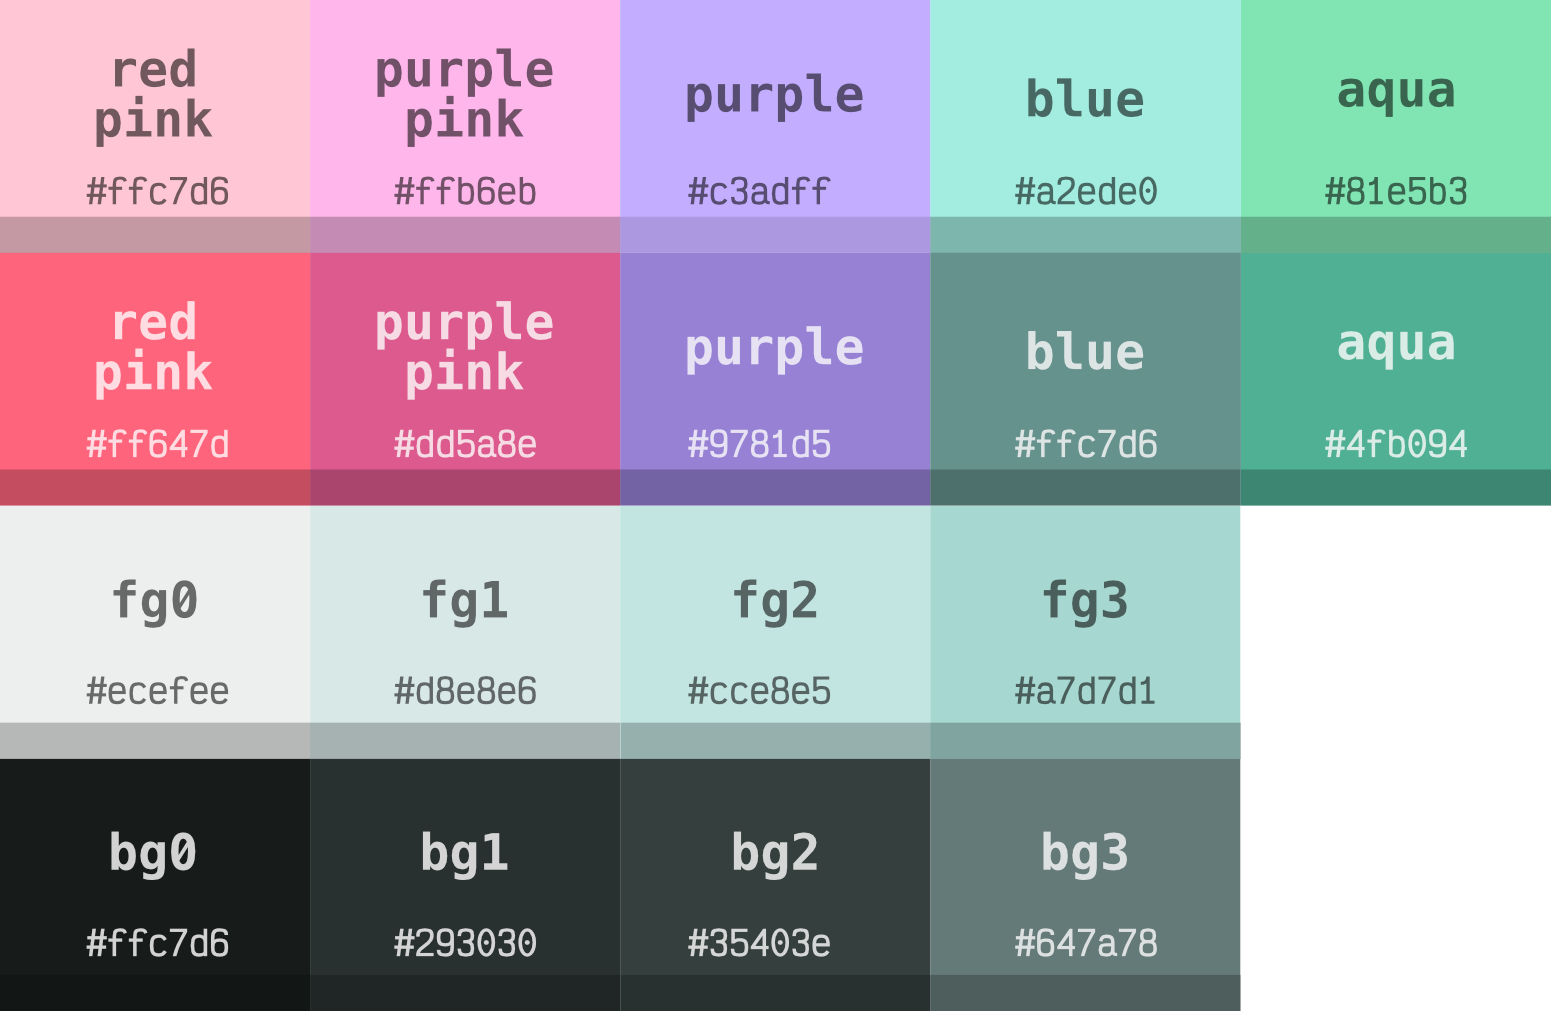
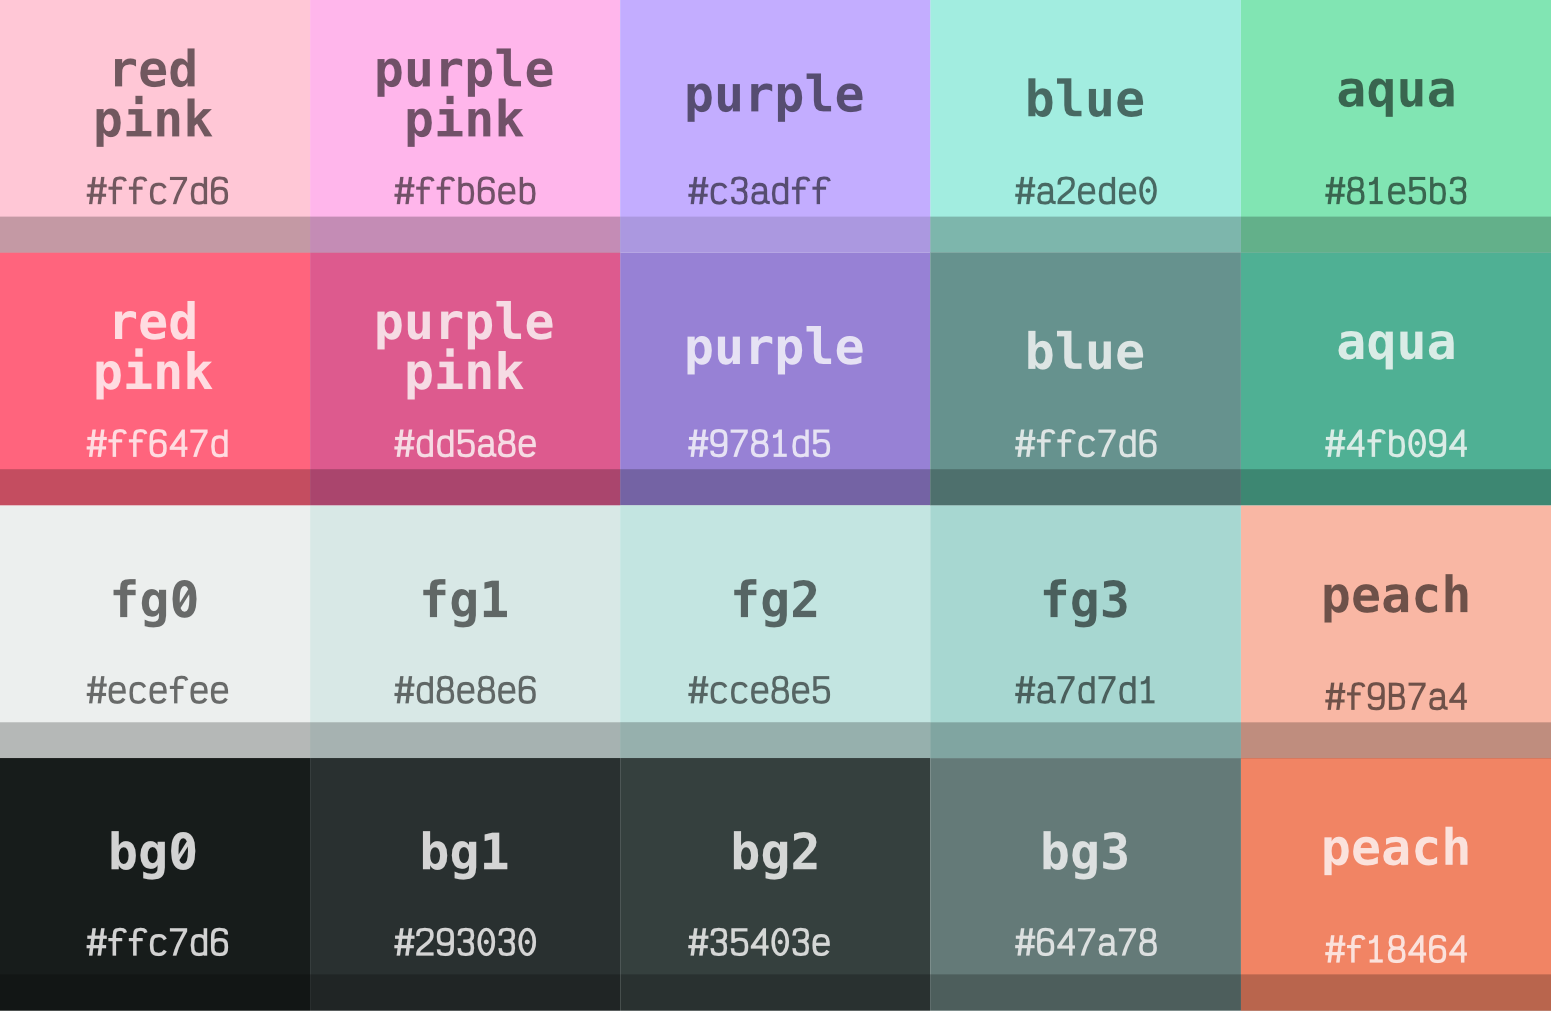
come on

diff --git a/src/theme.js b/src/theme.js
@@ -1,5 +1,4 @@
-const { colors } = require('./colors')
-const { tokenColors } = require('./colors')
+const { colors, workBenchColors, tokenColors, gruvvyWatermelonColors } = require('./colors')
 
 function getTheme({ theme, name }) {
 
@@ -77,9 +76,9 @@ function getTheme({ theme, name }) {
             "editorGutter.background": colors.dark_normal + "00",
             "editorGutter.deletedBackground": tokenColors.buttonHighlight + "40",
             "editorGutter.modifiedBackground": tokenColors.menuHighlight + "40",
-            "editorHint.foreground": tokenColors.menuHighlight,
-            "editorHoverWidget.background": colors.dark_0,
-            "editorHoverWidget.border": colors.dark_1,
+            "editorHint.foreground": workBenchColors.widget_fg,
+            "editorHoverWidget.background": workBenchColors.widget_bg,
+            "editorHoverWidget.border": workBenchColors.widget_hl,
             "editorIndentGuide.activeBackground1": colors.dark_1,
             "editorIndentGuide.background1": colors.dark_0,
             "editorInfo.foreground": tokenColors.menuHighlight,
@@ -108,17 +107,17 @@ function getTheme({ theme, name }) {
             "editorOverviewRuler.wordHighlightForeground": colors.light_0 + "80",
             "editorOverviewRuler.wordHighlightStrongForeground": colors.light_0 + "60",
             "editorRuler.foreground": colors.dark_1,
-            "editorSuggestWidget.background": colors.dark_0,
-            "editorSuggestWidget.border": colors.dark_0,
-            "editorSuggestWidget.foreground": colors.light_hard,
-            "editorSuggestWidget.highlightForeground": tokenColors.menuHighlight,
-            "editorSuggestWidget.selectedBackground": colors.dark_1,
+            "editorSuggestWidget.background": workBenchColors.widget_bg,
+            "editorSuggestWidget.border": workBenchColors.widget_fg,
+            "editorSuggestWidget.foreground": workBenchColors.widget_fg,
+            "editorSuggestWidget.highlightForeground": workBenchColors.widget_fg,
+            "editorSuggestWidget.selectedBackground": workBenchColors.widget_hl,
             "editorUnnecessaryCode.border": colors.light_0,
             "editorUnnecessaryCode.opacity": colors.light_hard,
             "editorWarning.foreground": colors.color_4,
             "editorWhitespace.foreground": colors.light_0,
-            "editorWidget.background": colors.dark_normal,
-            "editorWidget.border": colors.dark_1,
+            "editorWidget.background": workBenchColors.widget_bg,
+            "editorWidget.border": workBenchColors.widget_hl,
             "errorForeground": tokenColors.buttonHighlight,
             "extensionBadge.remoteBackground": tokenColors.menuHighlight,
             "extensionBadge.remoteForeground": colors.dark_normal,
@@ -195,17 +194,17 @@ function getTheme({ theme, name }) {
             "panelTitle.activeBorder": tokenColors.menuHighlight,
             "panelTitle.activeForeground": colors.light_soft,
             "panelTitle.inactiveForeground": colors.light_0,
-            "peekView.border": colors.dark_0,
-            "peekViewEditor.background": colors.dark_soft,
-            "peekViewEditor.matchHighlightBackground": tokenColors.menuHighlight + "28",
-            "peekViewEditorGutter.background": colors.dark_soft,
-            "peekViewResult.background": colors.dark_0,
-            "peekViewResult.fileForeground": colors.light_hard,
-            "peekViewResult.matchHighlightBackground": colors.color_3 + "50",
-            "peekViewResult.selectionBackground": tokenColors.menuHighlight + "28",
-            "peekViewTitle.background": colors.dark_soft,
-            "peekViewTitleDescription.foreground": colors.light_0,
-            "peekViewTitleLabel.foreground": colors.light_hard,
+            "peekView.border": workBenchColors.widget_hl,
+            "peekViewEditor.background": workBenchColors.widget_bg,
+            "peekViewEditor.matchHighlightBackground": workBenchColors.widget_hl,
+            "peekViewEditorGutter.background": workBenchColors.widget_menu_bg,
+            "peekViewResult.background": workBenchColors.widget_menu_bg,
+            "peekViewResult.fileForeground": workBenchColors.widget_fg,
+            "peekViewResult.matchHighlightBackground": gruvvyWatermelonColors.white,
+            "peekViewResult.selectionBackground": workBenchColors.widget_hl,
+            "peekViewTitle.background": workBenchColors.widget_menu_bg,
+            "peekViewTitleDescription.foreground": workBenchColors.widget_fg,
+            "peekViewTitleLabel.foreground": workBenchColors.widget_fg,
             "pickerGroup.border": colors.light_hard + "1a",
             "problemsErrorIcon.foreground": tokenColors.buttonHighlight,
             "problemsInfoIcon.foreground": tokenColors.menuHighlight,
@@ -304,7 +303,7 @@ function getTheme({ theme, name }) {
             "terminal.ansiBrightYellow": colors.color_4,
             "terminal.ansiCyan": colors.color_3,
             "terminal.ansiGreen": tokenColors.menuHighlight,
-            "terminal.ansiMagenta": colors.color_5,
+            // "terminal.ansiMagenta": colors.color_5,
             "terminal.ansiRed": tokenColors.buttonHighlight,
             "terminal.ansiWhite": colors.light_hard,
             "terminal.ansiYellow": colors.color_4,
@@ -447,7 +446,7 @@ function getTheme({ theme, name }) {
             {
                 "scope": "constant.language",
                 "settings": {
-                    "foreground": tokenColors.value
+                    "foreground": tokenColors.base_value
                 }
             },
             {
@@ -1381,7 +1380,6 @@ function getTheme({ theme, name }) {
             {
                 "scope": [
                     "variable",
-                    "variable.other"
                 ],
                 "settings": {
                     "foreground": colors.light_hard
@@ -1428,7 +1426,7 @@ function getTheme({ theme, name }) {
                     "variable.other.object.property.cs"
                 ],
                 "settings": {
-                    "foreground": colors.light_hard
+                    "foreground": tokenColors.field_name
                 }
             },
             {
@@ -1521,11 +1519,18 @@ function getTheme({ theme, name }) {
             },
             {
                 "scope": [
-                    "variable.other",
-                    "variable.other.object",
                     "entity.name.variable.field",
                     "entity.name.variable.parameter",
                     "entity.name.variable.local"
+                ],
+                "settings": {
+                    "foreground": tokenColors.field_name_declaration,
+                }
+            },
+            {
+                "scope": [
+                    "variable.other.cs",
+                    "variable.other.object.cs",
                 ],
                 "settings": {
                     "foreground": tokenColors.field_name,
@@ -1579,7 +1584,7 @@ function getTheme({ theme, name }) {
                     "entity.name.variable.enum-member"
                 ],
                 "settings": {
-                    "foreground": tokenColors.value
+                    "foreground": tokenColors.base_value
                 }
             },
             {

diff --git a/src/colors.js b/src/colors.js
@@ -2,8 +2,8 @@ const colors = {
     dark_hard: "#171c1b",
     dark_normal: "#202626",
     dark_soft: "#293030",
-    dark_0: "#2e3836",
-    dark_1: "#35403e",
+    dark_0: "#35403e",
+    dark_1: "#5f6867",
     light_hard: "#ecefee",
     light_normal: "#d8e8e6",
     light_soft: "#cce8e5",
@@ -17,57 +17,90 @@ const colors = {
     color_6: "#A2EDE0",
     color_7: "#67938E",
     color_8: "#81E5B3",
-    color_9: "#4FB094"
+    color_9: "#4FB094",
+    color_10: "#f9b7a4",
+    color_11: "#f18464"
+}
+
+const gruvvyWatermelonColors = {
+
+    white: colors.light_hard,
+    gray: colors.light_0,
+    black: colors.dark_hard,
+
+    bg_0: dark_normal,
+    bg_1: colors.dark_soft,
+    bg_2: colors.dark_0,
+    fg_0: colors.light_hard,
+    fg_1: colors.light_normal,
+    fg_2: colors.light_soft,
+
+    bright_red_pink: colors.color_0,
+    red_pink: colors.color_1,
+    bright_purple_pink: colors.color_2,
+    purple_pink: colors.color_3,
+    bright_purple: colors.color_4,
+    purple: colors.color_5,
+    bright_blue: colors.color_6,
+    blue: colors.color_7,
+    bright_aqua: colors.color_8,
+    aqua: colors.color_9,
+    bright_peach: colors.color_10,
+    peach: colors.color_11
 }
 
 const workBenchColors = {
-
+    widget_bg: gruvvyWatermelonColors.bg_1,
+    widget_fg: gruvvyWatermelonColors.fg_0,
+    widget_hl: gruvvyWatermelonColors.gray,
+    widget_menu_bg: gruvvyWatermelonColors.bg_2
 }
 
 const tokenColors = {
-    // public, private, static...
-    keyword_storage: colors.color_8,
 
     // punctuation
-    punctuation: colors.color_8,
+    punctuation: gruvvyWatermelonColors.bright_aqua,
+
+    // public, private, static...
+    keyword_storage: gruvvyWatermelonColors.bright_aqua,
 
     // base types (bool, string, int, uint, float...) + flow control + operators
-    keyword_flow: colors.color_7,
-    keyword_base_types: colors.color_7,
-    operator: colors.color_7,
+    keyword_flow: gruvvyWatermelonColors.aqua,
+    keyword_base_types: gruvvyWatermelonColors.aqua,
+    operator: gruvvyWatermelonColors.aqua,
 
     // type/class
-    type: colors.color_5,
+    type: gruvvyWatermelonColors.purple,
 
     // fieldNames
-    field_name: colors.color_0,
+    field_name_declaration: gruvvyWatermelonColors.bright_red_pink,
+    field_name: gruvvyWatermelonColors.bright_peach,
 
     // namespaces + classname + className of file
-    namespace: colors.color_1,
-    class_name: colors.color_1,
+    namespace: gruvvyWatermelonColors.red_pink,
+    class_name: gruvvyWatermelonColors.red_pink,
 
     // property names
-    property: colors.color_9,
+    property: gruvvyWatermelonColors.aqua,
 
     // functions/methods
-    method: colors.color_3,
+    method: gruvvyWatermelonColors.red_pink,
 
     // number value + string value + enum value + bool
-    value: colors.color_9,
-    string: colors.color_9,
+    base_value: gruvvyWatermelonColors.aqua,
 
     // error
-    errorColor: colors.color_1,
+    errorColor: gruvvyWatermelonColors.purple_pink,
     // warn
-    warnColor: colors.color_1,
+    warnColor: gruvvyWatermelonColors.peach,
     // info
-    infoColor: colors.color_6,
+    infoColor: colors.purple,
     // hint
-    hintColor: colors.color_8,
+    hintColor: gruvvyWatermelonColors.bright_aqua,
 
-    menuHighlight: colors.color_6,
-    buttonHighlight: colors.color_8,
-    secondaryButtonHighlight: colors.color_2
+    menuHighlight: gruvvyWatermelonColors.bright_blue,
+    buttonHighlight: gruvvyWatermelonColors.bright_aqua,
+    secondaryButtonHighlight: gruvvyWatermelonColors.purple_pink
 }
 
-module.exports = { colors, tokenColors } 
+module.exports = { colors, tokenColors, workBenchColors, gruvvyWatermelonColors } 
